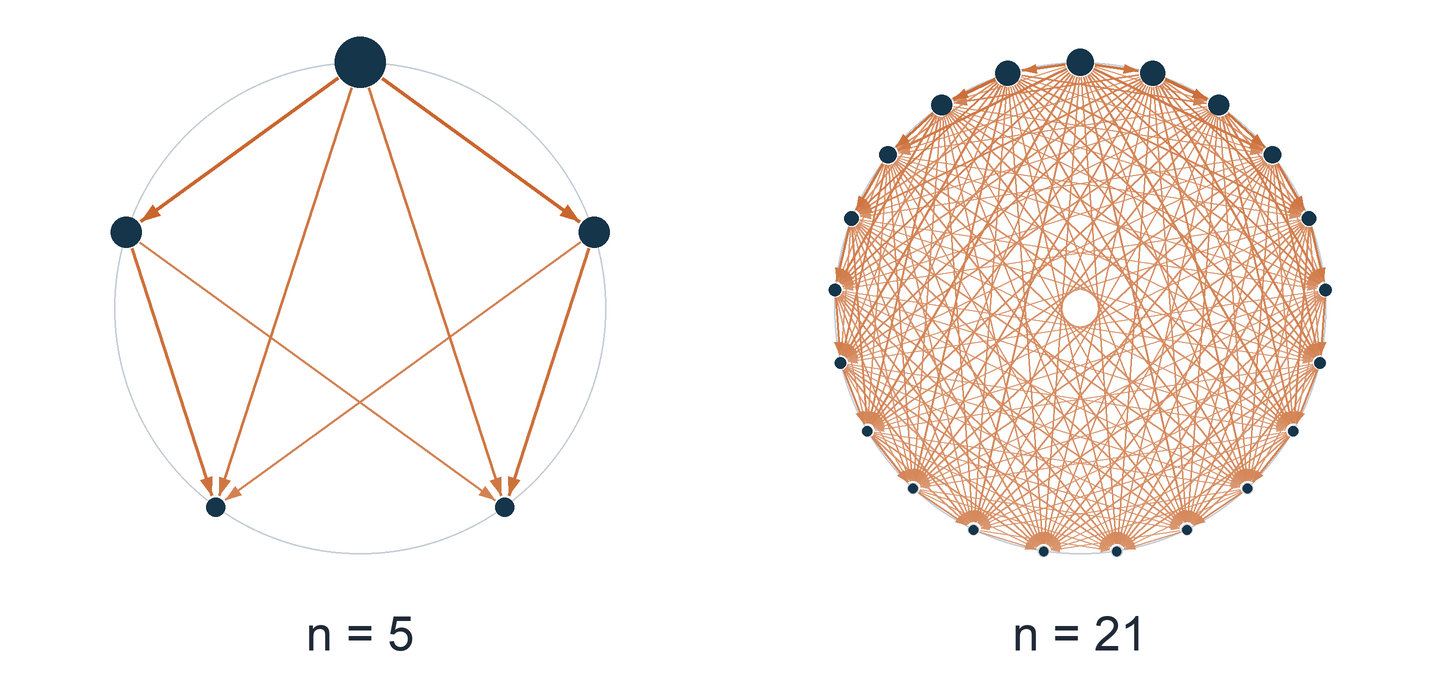
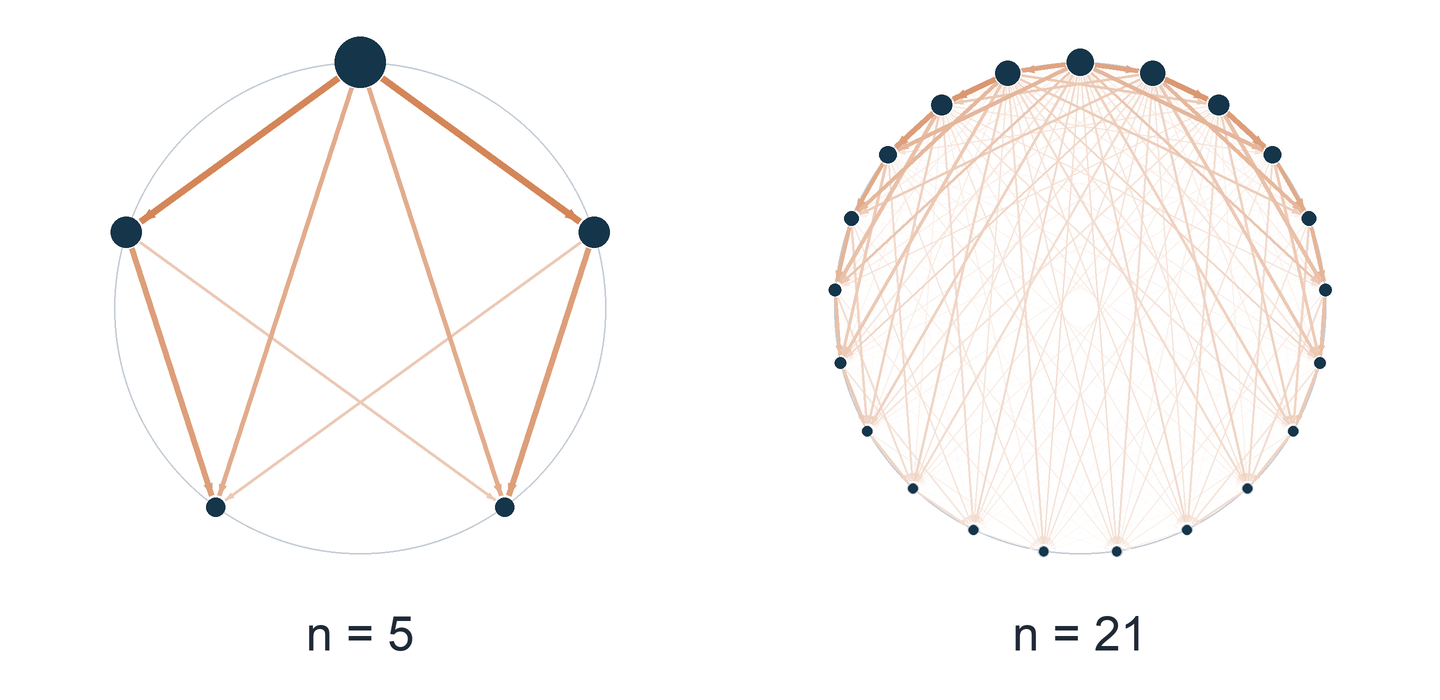
Update heat animation and README

diff --git a/scripts/render-semigroup.py b/scripts/render-semigroup.py
@@ -3,24 +3,19 @@
 
 Run from the repository root: python3 scripts/render-semigroup.py
 Multiplier and jump rates: https://arxiv.org/html/2606.02847#S1.E1.
-Both cycles start with a unit point mass at 0. Disk areas are proportional to site masses;
-small hollow background markers keep every site visible even at zero mass.
-All positive-mass disks have the same color. Straight arrows encode the sign
-and magnitude of q(y-x)(p(x)-p(y)); width and base darkness use one fixed logarithmic
-strength scale across both sizes and all frames, rather than a linear flux scale.
-All nonzero flows are drawn together, with a minimum readable stroke; only
-floating-point roundoff is ignored. A common opacity fades both panels together
-near equilibrium, without rescaling arrow widths. The first cycle has 30%
-larger arrowheads. Every visible flow has an arrowhead. The displayed odd cycles have
-nonzero direct jump rates from the origin to every other site.
-All transfers enter the actual dynamics and energy calculation.
-The graph shows Ent_pi(rho_t) / E_n(sqrt(rho_t)), rho_t = n p_t.
-It is a numerical illustration, not a proof. The equilibrium ratio is 0/0;
-the plotted finite-time ratios approach 2. Playback slows the early evolution
-by sampling mathematical time nonuniformly. Both animations use the same
-sample times and durations, with a five-second initial hold. The evolution
-continues until every flow is below display resolution, then holds for three
-seconds; browsers may start separate GIFs at different times.
+Both cycles start with unit point mass at 0. Disk area is proportional to mass.
+Hollow background markers keep empty sites visible. Arrows show signed net flow
+q(y-x)(p(x)-p(y)). One fixed, continuous logarithmic scale controls their width
+and darkness, tending to zero with flow. There are no activation thresholds,
+minimum opacities, per-panel scales, or time-dependent fades. Color rounding
+alone makes sufficiently small flows invisible. All flows enter the dynamics.
+
+The second GIF shows Ent_pi(rho_t) / E_n(sqrt(rho_t)), rho_t = n p_t. This is a
+numerical illustration, not a proof; the finite-time ratio approaches 2, while
+the exact equilibrium ratio is 0/0. Both GIFs use the same models, sample times,
+and durations. Quadratic time sampling slows the early evolution. Playback
+holds the initial frame for five seconds and the final frame for three seconds.
+Browsers may start separate GIFs at different times.
 """
 
 from math import cos, hypot, log, log1p, pi, sin
@@ -49,7 +44,6 @@ RING_RADIUS = 123
 MASS_RADIUS = 18
 SITE_RADIUS = 2.8
 CENTERS = ((180, 154), (540, 154))
-ARROWHEAD_SCALES = (1.3, 1.0)
 WHITE = (255, 255, 255)
 INK = (31, 41, 55)
 GUIDE = (196, 204, 213)
@@ -58,9 +52,7 @@ FLOW_COLOR = (191, 73, 4)
 PLOT_COLORS = ("#0072b2", "#d55e00")
 PLOT_STYLES = ("-", (0, (5, 3)))
 PLOT_MARKERS = ("o", "D")
-FLOW_REFERENCE = 0.0001
-MIN_FLOW_VISIBILITY = 0.005
-FULL_FLOW_VISIBILITY = 0.04
+FLOW_REFERENCE = 0.001
 
 
 class HeatEvolution:
@@ -162,9 +154,6 @@ def check_model(model):
     assert np.all((ratios > 0) & (ratios < 2))
     assert np.all(np.diff(ratios) >= 0)
     assert 0 < 2 - ratios[-1] < 1e-6
-    final_flows = model.net_flows(model.distribution(END_TIME))
-    final_visibility = np.log1p(np.abs(final_flows) / FLOW_REFERENCE) / FLOW_LOG_SCALE
-    assert np.all(final_visibility < MIN_FLOW_VISIBILITY), "Animation ends with visible flows"
     print(f"n={n}: R(0)={ratios[0]:.10f}, R({END_TIME:g})={ratios[-1]:.10f}")
 
 
@@ -220,15 +209,18 @@ def mix(a, b, fraction):
     return tuple(round(x + (y - x) * fraction) for x, y in zip(a, b))
 
 
+def flow_strength(flow):
+    """A shared continuous scale: zero flow has zero width and zero opacity."""
+    return log1p(abs(flow) / FLOW_REFERENCE) / FLOW_LOG_SCALE
+
+
 def sites(n, center):
     return [(center[0] + RING_RADIUS * sin(2 * pi * k / n),
              center[1] - RING_RADIUS * cos(2 * pi * k / n)) for k in range(n)]
 
 
-def font(size, bold=False):
-    candidates = (("DejaVuSans-Bold.ttf", "/System/Library/Fonts/Supplemental/Arial Bold.ttf")
-                  if bold else ("DejaVuSans.ttf", "/System/Library/Fonts/Supplemental/Arial.ttf"))
-    for candidate in candidates:
+def font(size):
+    for candidate in ("DejaVuSans.ttf", "/System/Library/Fonts/Supplemental/Arial.ttf"):
         try:
             return ImageFont.truetype(candidate, size * SCALE)
         except OSError:
@@ -239,15 +231,6 @@ def font(size, bold=False):
 def render_heat(t):
     image = Image.new("RGB", (DIAGRAM_WIDTH * SCALE, DIAGRAM_HEIGHT * SCALE), WHITE)
     draw = ImageDraw.Draw(image)
-    distributions = tuple(model.distribution(t) for model in MODELS)
-    flows = tuple(model.net_flows(p) for model, p in zip(MODELS, distributions))
-    max_flow = max(float(np.max(np.abs(values))) for values in flows)
-    max_visibility = log1p(max_flow / FLOW_REFERENCE) / FLOW_LOG_SCALE
-    # Fade the complete flow field near equilibrium, not individual edges.
-    # Per-edge cutoffs otherwise delay weak flows that start simultaneously.
-    fade = np.clip((max_visibility - MIN_FLOW_VISIBILITY) /
-                   (FULL_FLOW_VISIBILITY - MIN_FLOW_VISIBILITY), 0.0, 1.0)
-    opacity = float(fade ** 2 * (3 - 2 * fade))
 
     def line(points, color, width=1):
         draw.line([(round(x * SCALE), round(y * SCALE)) for x, y in points],
@@ -259,26 +242,23 @@ def render_heat(t):
                       (round((x + radius) * SCALE), round((y + radius) * SCALE))],
                      fill=fill, outline=outline, width=max(1, round(width * SCALE)))
 
-    def label(text, x, y, size=22, bold=False):
-        draw.text((x * SCALE, y * SCALE), text, font=font(size, bold), fill=INK, anchor="mm")
-
-    for model, center, arrowhead_scale, p, signed_flows in zip(
-            MODELS, CENTERS, ARROWHEAD_SCALES, distributions, flows):
+    for model, center in zip(MODELS, CENTERS):
+        p = model.distribution(t)
         check_distribution(model, p)
         locations = sites(model.n, center)
         radii = MASS_RADIUS * np.sqrt(p)
         disk(center, RING_RADIUS, None, GUIDE, 0.8)
-        label(f"n = {model.n}", center[0], 317, size=24)
-        # Equal masses have zero net flow. Ignore roundoff at that equality,
-        # without using a perceptual threshold that hides weak genuine flows.
-        equality_tolerance = 16 * np.finfo(float).eps * float(p.max())
+        draw.text((center[0] * SCALE, 317 * SCALE), f"n = {model.n}",
+                  font=font(24), fill=INK, anchor="mm")
+        signed_flows = model.net_flows(p)
         # Faint transfers first, so stronger transfers remain visible at crossings.
         for index in np.argsort(np.abs(signed_flows)):
-            x, y = int(model.x[index]), int(model.y[index])
             flow = float(signed_flows[index])
-            if opacity == 0 or flow == 0 or abs(p[x] - p[y]) <= equality_tolerance:
+            strength = flow_strength(flow)
+            color = mix(WHITE, FLOW_COLOR, strength)
+            if color == WHITE:
                 continue
-            visibility = log1p(abs(flow) / FLOW_REFERENCE) / FLOW_LOG_SCALE
+            x, y = int(model.x[index]), int(model.y[index])
             if flow < 0:
                 x, y = y, x
             start, end = locations[x], locations[y]
@@ -291,13 +271,9 @@ def render_heat(t):
                 continue
             a = (start[0] + ux * start_margin, start[1] + uy * start_margin)
             b = (end[0] - ux * end_margin, end[1] - uy * end_margin)
-            # Keep weak indirect transfers readable, while a nonlinear width
-            # gives the dominant transfers more contrast on the same fixed scale.
-            color = mix(WHITE, FLOW_COLOR, opacity * (0.55 + 0.45 * visibility ** 1.5))
-            width = 0.8 + 4.2 * visibility ** 4
-            line([a, b], color, width)
-            length = min((4 + 5 * visibility) * arrowhead_scale, available * 0.45)
-            half_width = (1.5 + 1.5 * visibility) * arrowhead_scale
+            line([a, b], color, 5 * strength)
+            length = min(2 + 8 * strength, available * 0.45)
+            half_width = 0.35 * length
             arrow = [b, (b[0] - ux * length - uy * half_width,
                           b[1] - uy * length + ux * half_width),
                      (b[0] - ux * length + uy * half_width,
@@ -312,6 +288,22 @@ def render_heat(t):
 
     return image.resize((DIAGRAM_WIDTH * EXPORT_SCALE, DIAGRAM_HEIGHT * EXPORT_SCALE),
                         Image.Resampling.LANCZOS)
+
+
+def check_rendering(times):
+    """Guard against a visible jump after the hold and unfinished final arrows."""
+    initial = np.asarray(render_heat(0), dtype=float)
+    first_step = np.asarray(render_heat(float(times[1])), dtype=float)
+    onset_change = float(np.abs(first_step - initial).mean())
+    assert onset_change < 0.1, f"Abrupt first-frame change: {onset_change:g}"
+    for model in MODELS:
+        initial_flows = model.net_flows(model.distribution(0))
+        assert sum(mix(WHITE, FLOW_COLOR, flow_strength(float(flow))) != WHITE
+                   for flow in initial_flows) == np.count_nonzero(model.rates)
+        final_flows = model.net_flows(model.distribution(float(times[-1])))
+        assert all(mix(WHITE, FLOW_COLOR, flow_strength(float(flow))) == WHITE
+                   for flow in final_flows), "Animation ends with visible flows"
+    print(f"First-frame mean RGB change: {onset_change:.6f}; final arrows invisible.")
 
 
 def export_animation(name, render_frame, times):
@@ -349,6 +341,13 @@ def export_animation(name, render_frame, times):
     with Image.open(destination) as result:
         assert result.n_frames > 200 and result.info.get("loop") == 0
         assert result.size == (exported_width, exported_height)
+        saved_durations = []
+        for frame_index in range(result.n_frames):
+            result.seek(frame_index)
+            saved_durations.append(result.info["duration"])
+        assert sum(saved_durations) == sum(durations)
+        assert saved_durations[0] >= INITIAL_HOLD_MS
+        assert saved_durations[-1] >= FINAL_HOLD_MS
     print(f"Created {destination.relative_to(ROOT)} ({destination.stat().st_size:,} bytes)")
     print(f"Loop duration: {sum(durations) / 1000:.2f} seconds")
 
@@ -358,6 +357,7 @@ def main():
         check_model(model)
     # Keep both artifacts tied to these same models, times, and export durations.
     times = END_TIME * np.linspace(0, 1, FRAME_COUNT) ** 2
+    check_rendering(times)
     export_animation("word-length-semigroup", render_heat, times)
     ratio_plot = RatioPlot()
 

diff --git a/README.md b/README.md
@@ -12,7 +12,7 @@ This project uses [Lean](https://lean-lang.org/), a programming language in whic
   </a>
 </p>
 
-*The hot spot $`\rho_0`$ at the origin spreads along the discrete cycle, according to the long-range interactions specified by the word-length Laplacian $`-A_{\psi_n}`$, until all nodes reach the same temperature.*
+*The hot spot $`\rho_0`$ at the origin spreads along the discrete cycle, according to the long-range transportation specified by the word-length Laplacian $`-A_{\psi_n}`$, until all nodes reach the same temperature.*
 
 <p align="center">
   <a href="assets/entropy-energy-ratio.png">
@@ -24,7 +24,7 @@ This project uses [Lean](https://lean-lang.org/), a programming language in whic
 R_n(t)=\frac{\mathrm{Ent}_{\pi}(\rho_t)}{\mathcal E_n(\sqrt{\rho_t})}.
 ```
 
-Here $`\rho_t`$ is the heat density evolving from the hot spot $`\rho_0`$ at time $`t`$. $`\mathrm{Ent}_{\pi}(\rho_t)`$ and $`\mathcal E_n(\sqrt{\rho_t})`$ are called the relative entropy and the Dirichlet form, measuring how far $`\rho_t`$ is from equilibrium in different ways. One can see that the plotted ratios for both simulations approach $`2`$ from below, and may wonder whether this always holds. The inequality we verify below proves this in the affirmative for arbitrary density functions.
+Here $`\rho_t`$ is the heat density evolving from $`\rho_0`$ at time $`t`$. $`\mathrm{Ent}_{\pi}(\rho_t)`$ and $`\mathcal E_n(\sqrt{\rho_t})`$ are the relative entropy and the Dirichlet form, capturing how $`\rho_t`$ varies from equilibrium information-theoretically and analytically. One may notice that the plotted ratios of these two quantities approach $`2`$ from below, and may wonder whether this upper bound always holds. The inequality we verify below proves this upper bound holds for arbitrary density functions for all $`n \geq 4`$.
 
 ## Mathematical statement
 
